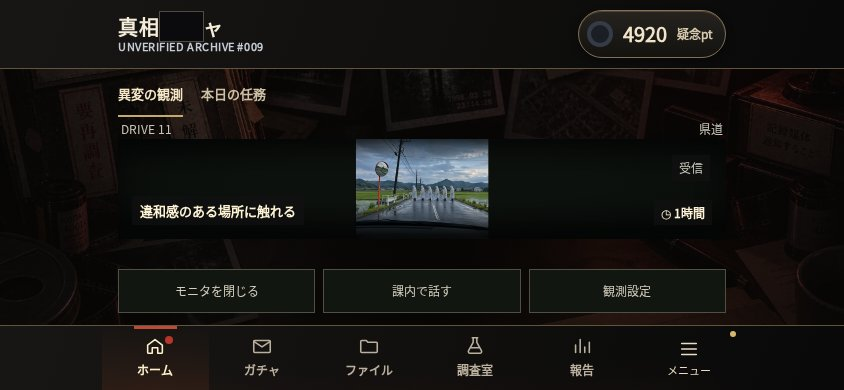
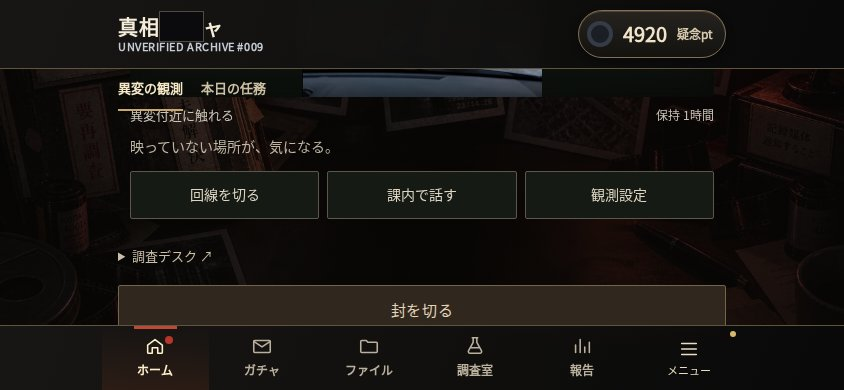
Refine observation hierarchy and add unsettling colleague identities (#58)

diff --git a/assets/observation.css b/assets/observation.css
@@ -1,31 +1,34 @@
-/* A scene, not a control panel. Secondary controls stay outside the image. */
-.agent-home .thread-radar{background:transparent;border:0;box-shadow:none;overflow:visible}
-.obs-topline,.obs-under{display:flex;align-items:center;justify-content:space-between;gap:12px;padding:0 3px;color:#c9c6b9;font:12px/1.5 var(--f-mono)}
-.obs-icon{display:grid;place-items:center;width:44px;height:44px;flex:0 0 44px;border:0;background:transparent;color:#f6e7c6;font:700 23px var(--f-body)}
-.obs-icon:focus-visible,#obs-frame:focus-visible{outline:2px solid #f2d59a;outline-offset:3px}
-#obs-danger{color:#f0b25a}#obs-danger[hidden]{display:none}
-.obs-frame{--obs-height:clamp(290px,57dvh,560px);position:relative;display:block;width:100%;height:var(--obs-height);padding:0;border:0;border-radius:0;overflow:hidden;background:#0d110e;isolation:isolate;cursor:default;touch-action:manipulation}
-.obs-frame[data-ready=true]{cursor:pointer}
-/* Cover at the native half-sheet ratio without squeezing the photo into a thumbnail. */
-#obs-image{position:absolute;top:50%;left:50%;width:max(100%,calc(var(--obs-height) * var(--obs-ratio)));height:auto;aspect-ratio:var(--obs-ratio);transform:translate(-50%,-50%);background-size:200% 100%;background-repeat:no-repeat;pointer-events:none}
+/* Observation, reading and action occupy separate rows. No text is cut into the image. */
+.agent-home .thread-radar{background:transparent;border:0;box-shadow:none;overflow:visible;padding-inline:12px}
+.obs-topline{display:flex;align-items:center;justify-content:space-between;gap:12px;min-height:30px;color:#c9c6b9;font:12px/1.5 var(--f-mono)}
+.obs-frame{--obs-height:320px;position:relative;display:block;width:100%;height:var(--obs-height);padding:0;border:0;border-radius:2px;overflow:hidden;background:#0d110e;isolation:isolate;touch-action:manipulation;cursor:pointer}
+#obs-frame:focus-visible{outline:2px solid #e6d1a8;outline-offset:3px}
+#obs-image{position:absolute;top:50%;left:50%;width:min(100%,calc(var(--obs-height) * var(--obs-ratio)));aspect-ratio:var(--obs-ratio);transform:translate(-50%,-50%);background-size:200% 100%;background-repeat:no-repeat;pointer-events:none}
 .obs-effect{position:absolute;inset:0;pointer-events:none}
-.obs-frame[data-mode=cctv] .obs-effect{background:repeating-linear-gradient(0deg,#0001 0,#0001 1px,transparent 1px,transparent 5px)}
 .obs-frame[data-mode=cctv] #obs-image{filter:saturate(.7)}
-.obs-frame[data-mode=vision] .obs-effect{box-shadow:inset 0 0 60px #0007}
-.obs-frame[data-mode=photo] .obs-effect{box-shadow:inset 0 0 40px #2d170a55}
-.obs-alert{position:absolute;right:16px;top:16px;display:grid;place-items:center;width:32px;height:32px;border-radius:50%;background:#e4cc90;color:#201a13;font:800 22px var(--f-body);box-shadow:0 2px 12px #0008;pointer-events:none}
-.obs-alert[hidden]{display:none}
-.obs-timer{position:absolute;bottom:14px;right:14px;padding:4px 7px;background:#111a;font:700 12px var(--f-mono);color:#fff2d5;pointer-events:none}
-.obs-timer:empty{display:none}
-#obs-first-hint{position:absolute;left:14px;bottom:14px;font:700 13px var(--f-body);padding:5px 8px;color:#fff3d6;background:#111a;pointer-events:none}
-#obs-feedback{min-height:24px;margin:3px 0 0;text-align:center;color:#ebd097;font:700 14px/24px var(--f-body)}
-.obs-under{min-height:30px}.obs-under .obs-icon{height:36px;min-height:44px}
-.obs-change[data-mode=vision]:not([data-quiet=true]) .obs-effect{animation:watch-blink .6s ease-out}
-.obs-change[data-mode=photo]:not([data-quiet=true]) .obs-effect{animation:watch-develop .6s ease-out}
-.obs-change[data-mode=dash]:not([data-quiet=true]) .obs-effect{animation:watch-blink .3s ease-out}
-@keyframes watch-blink{from{background:#070b08}to{background:transparent}}
-@keyframes watch-develop{from{background:#2e221dcc}to{background:transparent}}
-@media(prefers-reduced-motion:reduce){.obs-change .obs-effect{animation:none!important}}
+.obs-frame::after{content:'';position:absolute;inset:0;pointer-events:none;z-index:1;background:radial-gradient(ellipse 75% 70% at 50% 48%,transparent 46%,#080a0733 75%,#080a07b8 100%);box-shadow:inset 0 0 20px #080a0777}
+.obs-status{display:flex;align-items:baseline;justify-content:space-between;gap:12px;min-height:24px;padding:8px 0 0;color:#c9c6b9;font:13px/1.6 var(--f-body)}
+.obs-status [hidden]{display:none}.obs-status:has(#obs-ready[hidden]):has(#obs-first-hint[hidden]):has(#obs-timer:empty){display:none}
+#obs-timer{margin-left:auto;white-space:nowrap;font:12px/1.6 var(--f-mono);color:#c5c1b5}
+#obs-atmosphere{margin:8px 0 12px;color:#bfb6a4;font:14px/1.8 var(--f-body);overflow-wrap:anywhere}
+#obs-feedback{margin:4px 0 12px;color:#d6cebb;font:13px/1.7 var(--f-body);overflow-wrap:anywhere}#obs-feedback:empty{display:none}
+.obs-secondary{display:flex;gap:8px;margin:8px 0 4px}.obs-secondary button{flex:1;min-width:0;min-height:48px;padding:10px 6px;color:#ded6c2;border:1px solid #5c5749;border-radius:2px;background:#161a14;font:14px/1.5 var(--f-body);white-space:nowrap}.obs-secondary button[hidden]{display:none}
+.obs-frame[data-closed=true] #obs-image,.obs-frame[data-closed=true] .obs-effect{visibility:hidden}
+.obs-frame[data-closed=true]::before,.obs-frame[data-closed=true]::after{display:none}
+#obs-closed{position:absolute;inset:0;display:flex;flex-direction:column;align-items:center;justify-content:center;gap:14px;color:#d4cdbd;background:#0c0f0b;font:16px/1.8 var(--f-body);padding:24px;text-align:center}
+#obs-closed[hidden]{display:none}#obs-closed small{font-size:13px;max-width:24em}
+.watch-target-regions{display:grid;grid-template-columns:repeat(3,minmax(0,1fr));gap:8px;margin:20px 0}.watch-target-regions button{min-height:56px;border:1px solid #8b826a;background:#232920;color:#f1e8d1;font:15px var(--f-body)}
+.watch-target-copy{min-height:3.6em;font:16px/1.8 var(--f-body);color:#eee5cd}
+.watch-quiet-setting{display:flex;align-items:center;gap:10px;min-height:48px;margin:8px 0 16px;color:#e9dfca;font:14px/1.6 var(--f-body)}
+@media(max-height:500px){body:has(.agent-home:not([hidden])) main{padding-top:4px}.agent-home{gap:2px}.obs-topline{min-height:24px}}
+
+/* Contact uses a small physical jolt and one dark pulse, never a camera-noise grid. */
+.obs-frame::before{content:'';position:absolute;inset:0;z-index:1;pointer-events:none;opacity:0;transition:opacity 100ms ease-out;background:#0003}
+.obs-frame.obs-touched::before{opacity:1;transition:none}
+.obs-frame.obs-strike::before{background:radial-gradient(circle 75px at var(--touch-x) var(--touch-y),#0009,transparent 100%);box-shadow:none}
+.obs-frame[data-quiet=true]::before{background:none;transition:none;box-shadow:inset 0 0 0 2px #a5ac9470}
+@media(prefers-reduced-motion:reduce){.obs-frame::before{background:none!important;transition:none;box-shadow:inset 0 0 0 2px #a5ac9470}}
+
 .agent-home > .home-tabs{grid-row:1}.agent-home > .home-pane{grid-row:2}
 .agent-home > .agent-footer{grid-row:3;position:relative;inset:auto;transform:none;width:100%;margin-top:4px}
 body:has(.agent-home:not([hidden])) main{padding-bottom:calc(84px + env(safe-area-inset-bottom,0px))}
@@ -48,39 +51,7 @@ body:has(.agent-home:not([hidden])) main{padding-bottom:calc(84px + env(safe-are
 
 .watch-research{display:flex;align-items:center;justify-content:space-between;gap:12px;padding:10px 0;color:#d7cbb1;font-size:14px}.watch-research button{min-height:44px;min-width:92px;border:1px solid #9c8655;background:#29392d;color:#fff0cf;font:700 14px var(--f-body);padding:10px;scroll-margin-block:90px}.watch-research button:disabled{background:transparent;color:#bdb39c;border-color:#625a48;opacity:1}.watch-research-confirm h2{font-size:20px}.watch-research-confirm p{font-size:15px;line-height:1.8;color:#eddfc3}.watch-research-confirm button{display:block;min-height:48px;width:100%;margin:12px 0;white-space:normal}
 
-.obs-topline{min-height:32px}
-#obs-feedback{color:#b8bcaf;font:12px/1.8 var(--f-body);min-height:44px;text-align:left;margin:4px 3px 0}
-.obs-frame{--obs-height:clamp(290px,48dvh,560px)}
 
-.obs-alert{width:auto;height:auto;padding:4px 7px;border-radius:0;background:#111a;color:#cccdbd;font:12px/1.5 var(--f-mono);box-shadow:none}
-
-/* Look through a dark aperture. Only the scene is shaded, never controls or text.
-   Keep the centre clear and the periphery translucent so anomalies remain observable. */
-.obs-frame::after{content:'';position:absolute;inset:0;pointer-events:none;z-index:1;background:radial-gradient(ellipse 65% 58% at 50% 48%,transparent 38%,#05070533 62%,#050705b8 87%,#050705eb 100%);box-shadow:inset 0 0 22px 5px #050705bd}
-.obs-frame[data-mode=vision]::after{background:radial-gradient(ellipse 68% 48% at 50% 49%,transparent 38%,#03050355 68%,#030503d9 96%)}
-.obs-frame[data-mode=photo]::after{background:radial-gradient(ellipse 66% 64% at 49% 46%,transparent 40%,#110c0855 70%,#050403d9 100%)}
-.obs-frame[data-mode=dash]::after{background:radial-gradient(ellipse 78% 53% at 50% 44%,transparent 38%,#03050444 65%,#030504d9 100%)}
-.obs-alert,.obs-timer,#obs-first-hint{z-index:2}
-
-/* Contact uses a small physical jolt and one dark pulse, never a camera-noise grid. */
-.obs-frame::before{content:'';position:absolute;inset:0;z-index:1;pointer-events:none;opacity:0;transition:opacity 100ms ease-out;background:#0003}
-.obs-frame.obs-touched::before{opacity:1;transition:none}
-.obs-frame.obs-strike::before{background:radial-gradient(circle 75px at var(--touch-x) var(--touch-y),#0009,transparent 100%);box-shadow:none}
-.obs-frame[data-quiet=true]::before{background:none;transition:none;box-shadow:inset 0 0 0 2px #a5ac9470}
-@media(prefers-reduced-motion:reduce){.obs-frame::before{background:none!important;transition:none;box-shadow:inset 0 0 0 2px #a5ac9470}}
-/* Keep all clues reachable in every viewport; dark margins remain part of the aperture. */
-#obs-image{width:min(100%,calc(var(--obs-height) * var(--obs-ratio)))}
-.obs-frame[data-closed=true] #obs-image,.obs-frame[data-closed=true] .obs-effect{visibility:hidden}
-.obs-frame[data-closed=true]::before,.obs-frame[data-closed=true]::after{display:none}
-#obs-closed{position:absolute;inset:0;display:flex;flex-direction:column;align-items:center;justify-content:center;gap:16px;color:#c5c7b9;background:#090c0a;font:16px/1.8 var(--f-body);padding:24px}
-#obs-closed[hidden]{display:none}#obs-closed small{font-size:13px;max-width:24em}
-.obs-secondary{display:flex;gap:8px;margin:8px 0 12px}.obs-secondary button{flex:1;min-height:44px;padding:10px 8px;color:#d3cfbd;border:1px solid #514f43;background:#121611;font:13px/1.5 var(--f-body)}
-.watch-target-regions{display:grid;grid-template-columns:repeat(3,minmax(0,1fr));gap:8px;margin:20px 0}
-.watch-target-regions button{min-height:56px;border:1px solid #8b826a;background:#232920;color:#f1e8d1;font:15px var(--f-body)}
-.watch-target-copy{min-height:3.6em;font:16px/1.8 var(--f-body);color:#eee5cd}
-.watch-colleagues{display:grid;gap:14px}.watch-colleagues button{min-height:52px}.watch-colleagues small{display:block;font-size:12px;margin-top:4px}
-.watch-conversation blockquote{margin:20px 0;padding:18px;border-left:2px solid #8b826a;background:#1c211a;color:#f1e7cf;font:16px/1.9 var(--f-body)}
-.watch-room-note{color:#d4ccbb;font:14px/1.8 var(--f-body)}.watch-dialogue-actions{display:grid;gap:12px}.watch-dialogue-actions button{min-height:48px;white-space:normal}
 #watch-veil{position:fixed;inset:0;z-index:25;pointer-events:none;opacity:0;box-shadow:inset 0 0 28px #40150c55;background:radial-gradient(ellipse at 0 15%,#45201b38,transparent 18%),radial-gradient(ellipse at 100% 85%,#211f1c88,transparent 12%)}
 body[data-watch-mind='1'] .obs-frame{box-shadow:0 0 15px #562c1940}
 body[data-watch-mind='2'] #watch-veil{opacity:.55}
@@ -93,9 +64,15 @@ body[data-watch-mind='3'] .nav-in{box-shadow:0 -8px 28px #56291c55}
 body.watch-mind-quiet #watch-veil{display:none}
 @media(prefers-reduced-motion:reduce){#watch-veil{display:none}}
 
-.obs-secondary button[hidden]{display:none}
-#obs-feedback{min-height:22px;max-height:44px;overflow:hidden;margin:4px 3px 0}
-.obs-secondary{margin:4px 0 0}
-@media(max-height:500px){.agent-home>.home-tabs{margin:0}.obs-topline{min-height:24px}.obs-secondary button{padding:6px;font-size:12px}}
-@media(max-height:500px){body:has(.agent-home:not([hidden])) main{padding-top:4px}.agent-home{gap:2px}.obs-topline{min-height:20px}}
-.watch-quiet-setting{display:flex;align-items:center;gap:10px;min-height:48px;margin:8px 0 16px;color:#e9dfca;font:14px/1.6 var(--f-body)}
+/* Colleagues are people, not a stack of reward buttons. */
+.watch-room-note{color:#c7beaa;font:14px/1.9 var(--f-body);margin:4px 0 18px}
+.watch-people{display:grid;grid-template-columns:repeat(3,minmax(0,1fr));gap:10px;margin:16px 0}
+.watch-person{padding:0 0 14px;overflow:hidden;text-align:left;background:#141711;border:1px solid #575447;border-radius:2px;color:#e6dcc6;font-family:var(--f-body);cursor:pointer}
+.watch-person img{display:block;width:100%;height:auto;aspect-ratio:3/4;object-fit:cover}.watch-person b,.watch-person small{display:block;margin:8px 10px 0}.watch-person b{font-size:19px;font-weight:500}.watch-person small{font-size:12px;line-height:1.5;color:#c1b8a5}
+.watch-speaker{display:flex;align-items:center;gap:20px;padding-bottom:18px;border-bottom:1px solid #595345}.watch-speaker img{width:90px;height:120px;object-fit:cover;border-radius:2px}.watch-speaker>div{min-width:0}.watch-speaker small{font:13px/1.6 var(--f-body);color:#c7bba2}.watch-speaker h2{margin:4px 0 10px;font:500 25px/1.4 var(--f-body);letter-spacing:.15em}.watch-speaker p{margin:0;color:#b9b09e;font:12px/1.8 var(--f-body)}
+.watch-conversation blockquote{margin:22px 0 26px;padding:0;border:0;min-height:6em;color:#eee3cf;font:16px/2 var(--f-body);overflow-wrap:anywhere}
+.watch-topics{display:grid;grid-template-columns:repeat(2,minmax(0,1fr));gap:8px}.watch-choice{min-height:48px;padding:10px 8px;border:1px solid #70664f;background:#22271e;border-radius:2px;color:#e5dbc6;font:14px/1.6 var(--f-body);cursor:pointer}
+.watch-exits{display:flex;gap:12px;margin-top:14px}.watch-exits button{flex:1;min-width:0;min-height:48px;font:13px/1.5 var(--f-body);white-space:normal}
+@media(max-width:350px){.watch-people{gap:7px}.watch-person b,.watch-person small{margin-inline:7px}.watch-person small{font-size:11px}.watch-speaker{gap:14px}.watch-conversation blockquote{font-size:15px}}
+/* A quiet secondary route; the red raster frame used to compete with the scene. */
+.agent-home #agent-primary{min-height:50px;border:1px solid #76634b;border-image:none;border-radius:2px;background:#30271e;color:#e5d5b8;padding:12px 18px;box-shadow:none;font:500 15px/1.6 var(--f-body)}

diff --git a/index.html b/index.html
@@ -1083,10 +1083,9 @@ main:has(.gacha-scene:not([hidden])){padding-bottom:calc(var(--nav-h) + env(safe
         <div class="obs-topline"><span id="obs-source"></span><span id="obs-name"></span></div>
         <button id="obs-frame" class="obs-frame" data-mode="cctv" aria-label="観測映像を確認">
           <span id="obs-closed" hidden>回線を遮断しました<small>画面から目を離し、しばらく休んでください。</small></span><span id="obs-image" aria-hidden="true"></span><span class="obs-effect" aria-hidden="true"></span>
-          <span id="obs-ready" class="obs-alert" hidden aria-hidden="true">受信</span>
-          <span id="obs-timer" class="obs-timer" aria-hidden="true"></span>
-          <span id="obs-first-hint">映像または下のボタンをタップ</span>
         </button>
+        <div class="obs-status"><span id="obs-ready" hidden>記録を受信</span><span id="obs-first-hint">映像に触れて観測する</span><span id="obs-timer"></span></div>
+        <p id="obs-atmosphere" aria-live="off"></p>
         <p id="obs-feedback" role="status" aria-live="polite"></p>
         <div class="obs-secondary"><button id="obs-rest" type="button">モニタを閉じる</button><button id="obs-colleagues" type="button">課内で話す</button><button data-watch="settings" type="button" hidden>観測設定</button></div>
       </section>

diff --git a/assets/observation-model.js b/assets/observation-model.js
@@ -32,7 +32,7 @@
   o.tapProgress=int(o.tapProgress,TAPS[o.upgrades.interval]-1);o.patrols=int(o.patrols);o.autoLastAt=int(o.autoLastAt);o.autoEnabled=o.autoEnabled!==false;
   if(o.pending){o.pending.suppression=int(o.pending.suppression,14);o.pending.strain=Math.max(0,Math.min(90,Number(o.pending.strain)||0));}
   const m=o.mind&&typeof o.mind==='object'?o.mind:{};
-  o.mind={load:Math.max(0,Math.min(100,Number(m.load)||0)),lastAt:int(m.lastAt),lastInput:int(m.lastInput),closed:!!m.closed,talkAt:int(m.talkAt),talks:m.talks&&typeof m.talks==='object'?m.talks:{}};
+  o.mind={load:Math.max(0,Math.min(100,Number(m.load)||0)),lastAt:int(m.lastAt),lastInput:int(m.lastInput),closed:!!m.closed,talkAt:int(m.talkAt),talks:m.talks&&typeof m.talks==='object'?m.talks:{},dialogue:m.dialogue&&typeof m.dialogue==='object'?m.dialogue:{},clues:m.clues&&typeof m.clues==='object'?m.clues:{}};
   o.seed=int(o.seed,0xffffffff)||1;o.quiet=!!o.quiet;
   o.history=Array.isArray(o.history)?o.history.filter(x=>x&&MODES[x.mode]&&Number.isInteger(x.rarity)&&RARITY[x.rarity]).slice(-12):[];
   o.collection=o.collection&&typeof o.collection==='object'?o.collection:{};

diff --git a/docs/COLLEAGUES.md b/docs/COLLEAGUES.md
@@ -1,0 +1,33 @@
+# Observation and colleague dialogue
+
+UI principle: observe → recognize a discrepancy → intervene or disconnect. Keep the scene, status copy and actions in separate rows. Use generous line height and plain borders; no torn raster button frame on the observation screen. Portrait phones keep rest/conversation above navigation. Short landscape screens scroll rather than reduce the image below 180px. Keep all image-space anomaly targets intact.
+
+Horror comes from uncertain testimony and ordinary routines with one wrong detail, rather than progress meters or more visual noise. Three colleagues have four topics with three variants each, six greeting/return lines and one conditional contradiction (43 authored dialogue lines). Topic counters and the contradiction clue survive saves. Opening a conversation does not advance topic variants. Conversation retains the existing global 120-second recovery cooldown; dialogue never adds mental load. Long-term narrative pacing remains to be playtested.
+
+## Portrait assets
+
+Generated with built-in imagegen, one generation per portrait; converted to 512px-wide WebP for delivery. No fallback CLI or image editing. Original PNGs preserved in the generation output. Dark facial detail is intentional, while names, roles and distinct outlines identify the speaker.
+
+### 白瀬 / 記録係
+
+Asset: assets/colleagues/shirose.webp
+
+Prompt:
+
+Use case: stylized-concept. Asset type: portrait for a fictional Japanese bureaucratic horror game's dialogue UI. Generate ONE individual portrait, vertical 3:4 composition. Subject: Japanese woman archivist, short straight bob haircut, narrow shoulders, collared office blouse and cardigan, holding a closed thin archive folder against chest; distinct bob-haired silhouette. Photographic cinematic realism, quiet psychological unease, deserted municipal archive office at night, muted olive black and tobacco brown, tiny warm back rim light outlining shoulders and hair. Face almost entirely obscured in natural shadow, no visible identifiable eyes or facial features, no monstrous face. Figure readable as a person even at small thumbnail size; head and upper torso centered, generous safe space around head and shoulders. Dark softly defocused shelves in background, fade gently into nearly black edges. Restrained subtle photographic grain, no scanlines, no grids, no hard frame, no torn edges. No text, labels, logos, badges, watermark, blood, gore or extra people. This is a reusable fictional colleague silhouette, not a UI mockup.
+
+### 榊 / 設備担当
+
+Asset: assets/colleagues/sakaki.webp
+
+Prompt:
+
+Use case: stylized-concept. Asset type: portrait for a fictional Japanese bureaucratic horror game's dialogue UI. Generate ONE individual portrait, vertical 3:4 composition. Subject: Japanese male equipment technician, short slightly untidy hair, broad shoulders, plain work jacket, one hand holding a small coil of disconnected cable at waist; distinct practical broad silhouette. Photographic cinematic realism, quiet psychological unease, deserted municipal archive office at night, muted olive black and tobacco brown, tiny warm back rim light outlining shoulders and hair. Face almost entirely obscured in natural shadow, no visible identifiable eyes or facial features, no monstrous face. Figure readable as a person even at small thumbnail size; head and upper torso centered, generous safe space around head and shoulders. Dark softly defocused shelves in background, fade gently into nearly black edges. Restrained subtle photographic grain, no scanlines, no grids, no hard frame, no torn edges. No text, labels, logos, badges, watermark, blood, gore or extra people. This is a reusable fictional colleague silhouette, not a UI mockup.
+
+### 三輪 / 先輩調査員
+
+Asset: assets/colleagues/miwa.webp
+
+Prompt:
+
+Use case: stylized-concept. Asset type: portrait for a fictional Japanese bureaucratic horror game's dialogue UI. Generate ONE individual portrait, vertical 3:4 composition. Subject: Older Japanese male investigator, slim tall silhouette, longer slightly dishevelled hair, old rumpled suit jacket, narrow necktie, standing in half profile; distinct tall angular silhouette. Photographic cinematic realism, quiet psychological unease, deserted municipal archive office at night, muted olive black and tobacco brown, tiny warm back rim light outlining shoulders and hair. Face almost entirely obscured in natural shadow, no visible identifiable eyes or facial features, no monstrous face. Figure readable as a person even at small thumbnail size; head and upper torso centered, generous safe space around head and shoulders. Dark softly defocused shelves in background, fade gently into nearly black edges. Restrained subtle photographic grain, no scanlines, no grids, no hard frame, no torn edges. No text, labels, logos, badges, watermark, blood, gore or extra people. This is a reusable fictional colleague silhouette, not a UI mockup.

diff --git a/AGENTS.md b/AGENTS.md
@@ -11,4 +11,4 @@
 - Preserve horror, unease and tension over arcade presentation. Keep patrol/growth rewards understated, avoid combo/speed pressure and celebratory overlays, and leave the scene legible. Put primary controls below content or in the existing lower navigation; never cover text with stamps.
 - Do not expose observation tap counts, progress gauges or patrol counters. Keep the title redaction. Observation automation stays hidden and inactive until unlock conditions are agreed; preserve saved upgrade levels.
 - Anomalies require contact near their image-space target (or the accessible region picker); normal patrol must never suppress them. Contamination grows during active pursuit and recedes with idle time, monitor closure or conversation. Preserve controls, saved progress and offline recovery.
-- Keep observation input on the image, without a separate patrol button. Unlock observation settings after training, but keep reduced-motion preferences always available. Fit the scene and rest/conversation controls above the bottom navigation on phone viewports.
+- Keep observation input on the image, without a separate patrol button. Unlock observation settings after training, but keep reduced-motion preferences always available. Fit the scene and rest/conversation controls above the bottom navigation on portrait phone viewports. On short landscape screens, preserve a readable scene and let controls scroll into reach rather than shrinking the scene into a thumbnail. Keep status text outside the image.
